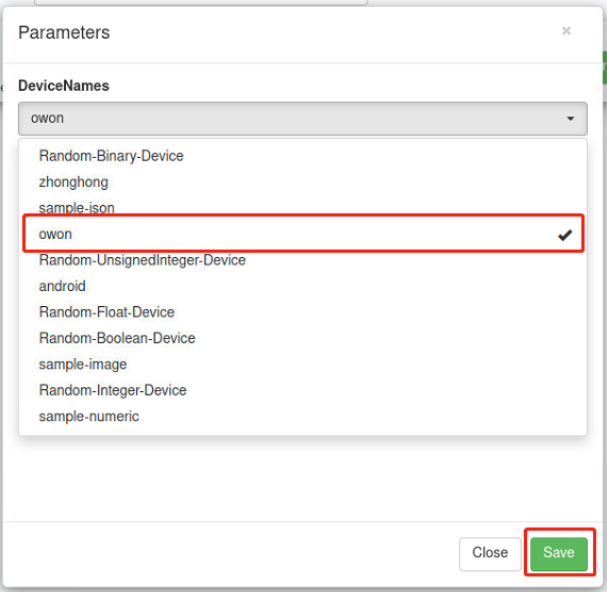
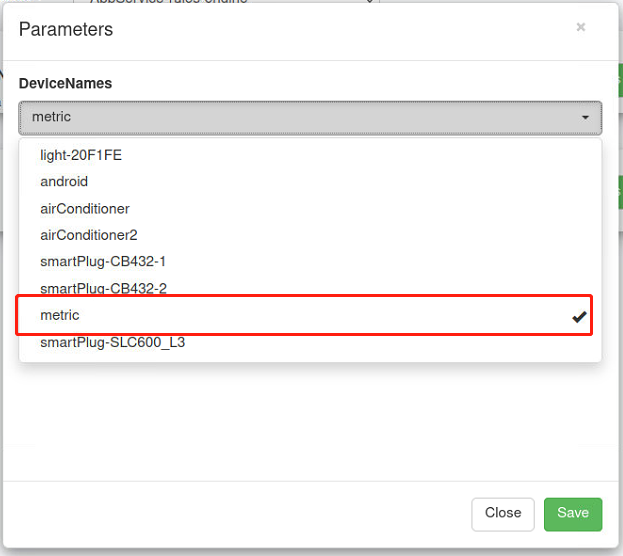
Version 7-30

Changed region(s): [[0.0, 0.0917, 1.0, 0.7644], [0.0, 0.8867, 1.0, 1.0], [0.0, 0.0, 1.0, 0.0917]]

diff --git a/5. 定时任务配置指导.md b/5. 定时任务配置指导.md
@@ -1,0 +1,92 @@
+<h1>EdgeX Foundry 配置指导 </h1>
+
+- [1. 前提条件](#1-前提条件)
+- [2. 配置主机状态上报定时任务](#2-配置主机状态上报定时任务)
+- [3. 配置数据导出任务](#3-配置数据导出任务)
+
+
+本文档指导您通过 EdgeX Foundry Web 管理界面配置定时任务，采集 EdgeX Foundry 服务器的主机状态信息并导出。
+您也可以使用同样的方法配置其他定时任务，自动收集IoT设备的信息。
+
+### 1. 前提条件
+- 已经部署好 EdgeX Foundry 软件，详情请参考 <a href="https://gitee.com/PubDocumentation/iot-documents/blob/master/1.%20EdgeX%20Foundry%E8%BD%AF%E4%BB%B6%E9%83%A8%E7%BD%B2.md" target="_blank">EdgeX Foundry软件部署</a>。
+- 已连接到 EdgeX Foundry 服务器所在的局域网。
+- 已经准备好登录 EdgeX Foundry Console 的账号。
+### 2. 配置主机状态上报定时任务
+1. 使用浏览器进入 http://{EdgeX Foundry 服务器 IP 地址}:4000/ 并登录。
+2. 在左侧导航栏选择 Scheduler，点击右侧的 Scheduler 页签。
+3. 点击 Interval 下面的 + 号添加时间间隔规则。<br>
+   
+   <img src="/images/EdgeX_Foundry配置指导/Interval下面的加号.png" width=300/><br>
+
+4. 填写规则的名称，并指定定时任务的频率（Frequency），例如 10 秒，表示每 10 秒触发一次定时任务。<br>
+   
+   <img src="/images/EdgeX_Foundry配置指导/Add%20Interval.png" width=450/><br>
+
+   点击左上角的对勾保存设置。<br>
+   新添加的时间间隔规则会出现在列表中。<br>
+
+   <img src="/images/EdgeX_Foundry配置指导/Interval添加结果.png" width=500/><br>
+
+5. 点击 IntervalAction 下的 + 号，添加定时任务触发规则。<br>
+   
+   <img src="/images/EdgeX_Foundry配置指导/InternalAction的加号.png" width=300/><br>
+
+6. 填写规则的参数。
+   - Name：规则的名称，例如 cpuMetric
+   - Interval：触发定时任务的时间间隔，可以选择之前步骤添加的时间间隔规则 metric
+   - Target：选择 core-command
+   - TargetAction：选择要触发的操作，例如，查询主机 CPU 信息：metric cpuInfo(get)<br>
+   其他参数保持默认即可。<br>
+
+   <img src="/images/EdgeX_Foundry配置指导/IntervalAction参数填写.png" width=600/><br>
+
+   点击左上角的对勾保存设置。<br>
+7. 重复步骤 5-6 配置主机、内存、磁盘信息查询的定时任务触发规则。
+   新添加的定时任务触发规则会出现在列表中。<br>
+   <img src="/images/EdgeX_Foundry配置指导/IntervalAaction添加结果.png" width=500/><br>
+
+### 3. 配置数据导出任务
+1. 使用浏览器进入 http://{EdgeX Foundry 服务器 IP 地址}:4000/ 并登录。
+2. 在左侧导航栏选择 AppServices，点击右侧的 AppServices 页签。
+3. 在 AppServices 下拉框选择 AppService-rules-engine。<br>
+   
+   <img src="/images/EdgeX_Foundry配置指导/选择AppServices.png" width=500/><br>
+
+4. 点击右侧窗格中的 Filtering，单击选择 FilterByDeviceName 按名称过滤设备。<br>
+   
+   <img src="/images/EdgeX_Foundry配置指导/点击FilterByDeviceName.png" width=500/><br>
+
+   选中后 FilterByDeviceName 出现在窗口中间位置。<br>
+     
+   <img src="/images/EdgeX_Foundry配置指导/FilterByDeviceName绿色按钮.png" width=500/><br>
+
+5. 点击 FilterByDeviceName 右侧的 Set Params 按钮。在 Parameters 对话框中选择要过滤的设备名称，本示例中选择 metric（主机设备）。<br>
+   
+   <img src="/images/EdgeX_Foundry配置指导/FilterByDeviceName_Parameters.png" width=450/><br>
+
+6. 点击右侧窗格中的 Export，单击选择 MQTTSend。<br>
+   选中后 MQTTSend 出现在窗口中间位置。<br>
+   
+   <img src="/images/EdgeX_Foundry配置指导/MQTTSend.png" width=500/><br>
+
+7. 点击 MQTTSend 右侧的 Set Params 按钮。在 Parameters 对话框中填写要导出数据的 MQTT Broker 信息。<br>
+   将 Topic 参数设置为您想要导出数据的目标主题。 
+   
+   <img src="/images/EdgeX_Foundry配置指导/MQTTSend_Parameters.png.jpg" width=450/><br>
+8. 点击 Deploy to Consul，完成配置。<br>
+   配置完成后，主机设备（metric）的所有数据均会主动发送到指定的主题。<br>
+
+   <img src="/images/EdgeX_Foundry配置指导/Deploy%20to%20Consul.png" width=500/>
+9.  登录 Edgex Foundry 服务器，执行以下命令接收导出任务发送的数据：<br>
+    `mosquitto_sub -h {MQTT Broker 地址} -t {Topic}`<br>
+    请将 {MQTT Broker 地址} 和 {Topic} 替换为第 7 步配置的信息。<br>
+    
+    <img src="/images/EdgeX_Foundry配置指导/接收导出数据.png" width=550/>
+
+   
+
+
+
+   
+

diff --git a/1. EdgeX Foundry软件部署.md b/1. EdgeX Foundry软件部署.md
@@ -128,7 +128,7 @@
 
 ## 6. 适配中弘 Modbus 网关
 
-1. 使用浏览器进入 http://{EdgeX Foundry 服务器 IP 地址}:4000/。
+1. 使用浏览器进入 http://{EdgeX Foundry 服务器 IP 地址}:4000/ 并登录。
 <!-- 2. 编辑 zhonghong_modbus_profile.yaml 配置文件，将空调地址全部修改为当前环境的实际地址。<br>
    Get 命令的地址需要替换为空调状态寄存器的地址，Set 命令的地址需要替换为控制寄存器的地址。<br>
    例如，在 PowerGet_193，需要将 193 替换成实际的状态寄存器地址；在 TemperatureSet_4130 中，需要将 4130 替换成实际的控制寄存器地址。 
